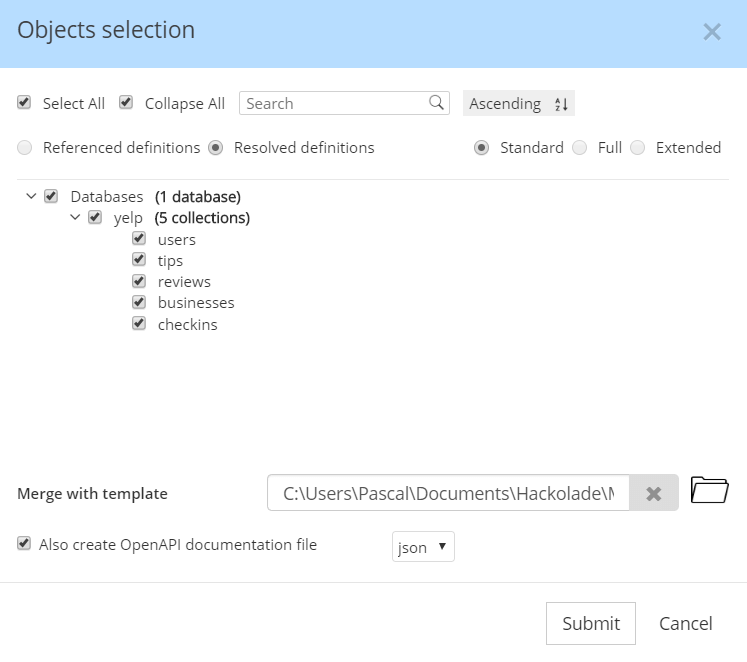
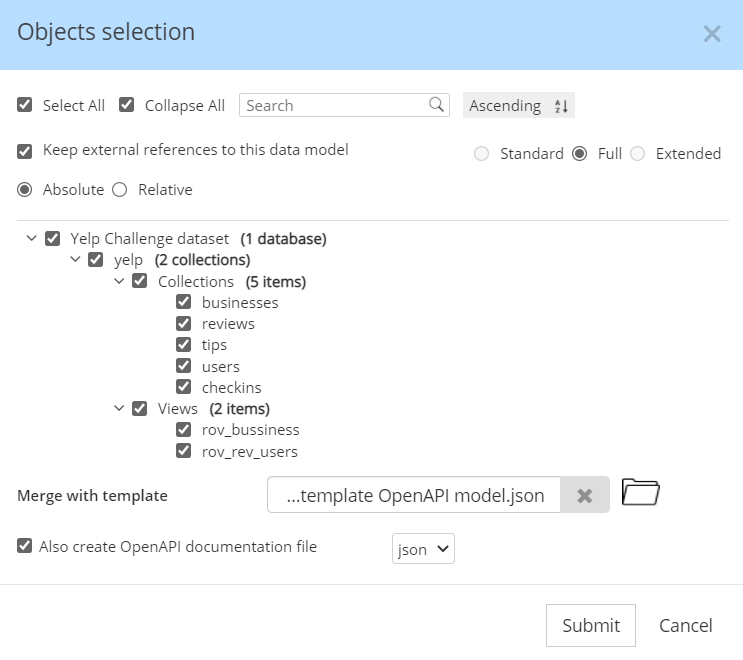
v5.4.2

diff --git a/Studio/Query-drivendatamodelingbasedona.md b/Studio/Query-drivendatamodelingbasedona.md
@@ -1,0 +1,109 @@
+# Query-driven data modeling based on access patterns
+
+Data modeling for relational databases is performed according to the rules of normalization, so larger tables are divided into smaller ones linked together with relationships.&nbsp; The purpose is to eliminate redundant or duplicate data.&nbsp; But NoSQL databases are completely different.&nbsp; They require a mindshift in schema design in order to leverage their capabilities, as well as a data modeling tool built specially for this new breed of state-of-the art technology.
+
+&nbsp;
+
+## Query-driven schema design
+
+To leverage the performance of NoSQL databases and the flexibility of JSON, it is important to unlearn the rules of normalization.&nbsp; JSON allows to aggregate information that belongs together so it is ready to be used, instead of splitting data across separate tables, as normalization rules would dictate.&nbsp; In other words, there’s an opportunity to join the data “on write”, instead of the traditional joins “on read” of relational databases which negatively impact performance.&nbsp; This difference is decisively important nowadays when real-time web applications and big data require high scalability and high availability.&nbsp; Note that this capability is not limited to JSON, as other types of NoSQL databases achieve the same result in different ways.
+
+![Image](<lib/Query-Driven%20schema%20design.png>)
+
+&nbsp;
+
+&nbsp;
+
+&nbsp;
+
+In NoSQL, you first define the queries for the application, then you store the data according to the query needs.&nbsp; It is said that data modeling for NoSQL should be “query-driven.”&nbsp; This aspect is critical to the success of NoSQL projects. &nbsp; A query-driven design of the JSON document schema means that, ideally for every time that the application needs to retrieve data from the database, all of the necessary data should be found with a single access to the database, without having to join it with data coming from other places.
+
+&nbsp;
+
+This approach is called [embedding](<https://hackolade.com/help/WhatisJSONWhatisJSONSchema.html#JSON%20in%20databases>), whereby the data, that would be in separate tables if normalized, is assembled and stored in a single atomic document, so it can be easily retrieved.&nbsp; Embedding is often opposed to referencing, which leverages foreign key relationships to the data stored elsewhere.&nbsp; While referencing is clearly more efficient in terms of storage costs, embedding provides much higher access performance and is easier for developers to manipulate.
+
+&nbsp;
+
+For queries returning multiple results, the idea is to retrieve all of the documents from ideally a single partition, so as to avoid having to gather information from multiple places.
+
+&nbsp;
+
+## Factors to take into consideration
+
+JSON seems to liberate users from the constraints of normalization.&nbsp; But you should exercise caution with deep nesting and unbounded arrays.
+
+&nbsp;
+
+### Document size and transaction volume
+
+When embedding into a single document, you must make sure to understand how the document will grow in size.&nbsp; While storage is cheap, you should also take into consideration the transmission impacts.&nbsp; To illustrate the point, if the document will be used on a mobile phone using a 4G network, does it make sense to transmit a 1 megabyte document if only a small portion of it is really necessary?&nbsp; Plus, your cloud provider may be charging for input/output traffic, so you may want to evaluate document size and transaction volume.
+
+&nbsp;
+
+### Cardinality of relationships
+
+Some document designs lead to a situation where data elements are constantly added to arrays.&nbsp; An unbounded array, i.e. an array with no limit to the number and size of array items being added, may grow to an unpredictable document size, with potentially negative impacts on performance and transmission costs.&nbsp; In some extremes you may even run into limits set by database providers, generally 16MB. &nbsp;
+
+&nbsp;
+
+When looking at embedding of one-to-many relationships, it is important to estimate the cardinality: are we talking about one-to-few, one-to-zillions, or somewhere in-between?&nbsp; Also, is the cardinality following a normal distribution, or do we have extreme outliers that require special treatment?
+
+&nbsp;
+
+### Referential integrity
+
+Detractors keep saying that NoSQL databases are not [ACID-compliant](<https://en.wikipedia.org/wiki/ACID> "target=\"\_blank\"") and would therefore not be usable in a transactional use case.&nbsp; Such criticism does not take into account several arguments, mainly that atomicity, integrity and consistency can be naturally achieved through embedding.&nbsp; Another factor, particularly in our modern connected world, is the fact that ACID is only possible when the system owns the full transaction end-to-end.&nbsp; Nowadays, resilience must be built into API processing more than database enforcement.
+
+&nbsp;
+
+Nevertheless, data quality and integrity should be a concern when designing application and schemas.&nbsp; And it is possible that some enforcement must be built at the application level.
+
+&nbsp;
+
+### Indexing impacts
+
+Indexes have their costs, and they're tempting features reminding us of the days of normalization.&nbsp; Some document designs, for example with a fully polymorphic model, lead to an undesirable proliferation of indexes.&nbsp; Whereas generic key-value pairs, while reducing the number of indexes, may lead to a loss of semantics with low integrity enforcement.&nbsp; Indexes are not free, so alternative access patterns must be evaluated and discussed.&nbsp; Maybe more data duplication is more effective than indexing?
+
+&nbsp;
+
+## Schema versioning and schema migration
+
+One of the huge benefits of flexible structures in JSON, is the ability to evolve schemas without interruption of database operations.&nbsp; But this feature should not be abused to the point that dozens of schema versions are supported by the application.&nbsp; As a matter of fact, if more than a single application is reading the data, it quickly becomes a nightmare to synchronize schema handling across multiple applications, let alone reporting and analytics tools.&nbsp; Besides, endless conditional branches in the application code unnecessarily burn CPU cycles.
+
+&nbsp;
+
+Best practices at major companies leverage schema versioning for transition periods, but are rigorous in quickly migrating old schema structures to the latest version before chaos occurs.&nbsp; Several strategies are used:&nbsp;
+
+* eager migration: like in the old days... convert the data prior to launching a new version of the software.&nbsp; This strategy does not leverage the flexible evolution capabilities of JSON;
+* lazy migration: update the schema of a document only after it has been used.&nbsp; A potential issue is that some documents will never be accessed, hence the migration will never end;
+* incremental migration: arbitrary chuncks of data are migrated, ideally at times when database loads are lower;
+* predictive migration: heuristics and probabilistic judgments are used to migrate documents before they are used;
+* combination of predictive migration first, followed by incremental to finish off the migration;
+* endless versioning: not desirable, particularly if constant evolution of the schema.
+
+&nbsp;
+
+### Backward- and forward-compatibility
+
+No database is an island.&nbsp; There may be many systems interacting with it.&nbsp; It is critically important to avoid the introduction of breaking changes. Even when planned and communicated, they have huge impacts on agility and costs.&nbsp; By thinking through each evolution, it is possible to leverage features in schema standards (JSON Schema, Avro, etc.) to ensure the full compatibility of schemas.&nbsp; That way consumers and producers can upgrade at their own pace.
+
+&nbsp;
+
+### Choice of partition or sharding keys
+
+Another great advantage of NoSQL databases is their horizontal scaling capability, which is achieved through the distribution of data across servers, data centers, and geography.&nbsp; But efficiently leveraging this capability requires careful design.&nbsp; It is a balancing act between spreading evenly storage and load across the different partitions/shards, and the efficient retrieval of information when serving queries, so the information can be retrieved from a minimal number of partitions/shards - ideally just one.&nbsp;
+
+&nbsp;
+
+&nbsp;
+
+## Facilitating communication and collaboration
+
+Hackolade Studio is graphical tool for entity-relationship diagrams, extended to represent nested objects found in popular technologies for databases and data exchanges.&nbsp; Developers might tell you that, if you want to see the schema, you should just look at the code.&nbsp; Good practices however teach us that schema design for NoSQL databases is even more important than for relational databases where rules of normalization provide some guardrails.&nbsp; JSON is so flexible and powerful that it can be dangerous in the hands of inexperienced developers or ignorance of the factors described above.
+
+&nbsp;
+
+An ERD picture is worth a thousand words.&nbsp; It fosters communication and helps think through the different ways to denormalize information and balance the different constraints.&nbsp; It also lets non-developers easily visualize and understand data structures that are the foundation of applications and data exchanges.&nbsp; If business users don't understand the context and meaning of the data, it becomes difficult to deploy self-service analytics or make accurate business decisions.
+
+&nbsp;
+

diff --git a/Studio/v5x.md b/Studio/v5x.md
@@ -2,9 +2,33 @@
 
 New features in v5.4.2 \[28-Jan-2022\]
 
+\- Software Key Validation dialog: pre-fill of optional Identifier field with Computer Name + OS username.&nbsp; Can be cleared or overwritten if desired
+
 \- ERD: added more display options to hide attributes with specific properties (non-primary keys, non-required attributes, nullable attributes, etc.)
 
-\- Polyglot: when deriving into Swagger/OpenAPI, added possibility to achieve model-driven API generation by merging with a template&nbsp;
+\- Polyglot: when deriving into Swagger/OpenAPI, added possibility to merge with a template, like with model-driven API generation
+
+\- Avro: added possibility to reverse-engineer multiple record schemas in single .avsc file
+
+\- Databricks: enhanced context creation, plus added Runtime 9 support
+
+\- Oracle: added config to allow connection to Amazon RDS
+
+\- Oracle: added connection by SID
+
+\- Oracle: added possibility to narrow scope of discovery of instance to a single user schema
+
+\- Oracle: added reverse-engineering of table and column comments
+
+\- PostgreSQL: adjusted reverse-engineering of indexes and functions when version 10
+
+\- Snowflake: added timeout from tools options, plus used warehouse auth by credentials
+
+\- Snowflake: added handling of cross-schema views
+
+\- Snowflake: added possibility to apply DDL script to instance
+
+\- Snowflake: added snippets for GeoJSON geometries in data type geography
 
 &nbsp;
 

diff --git a/Studio/BigQuery.md b/Studio/BigQuery.md
@@ -100,17 +100,11 @@ A button lets the user apply to a selected instance the script to create dataset
 
 ## Reverse-Engineering
 
-The connection is established using a connection using Google Cloud IAM credentials key file:
+The connection is established using a connection using Google Cloud IAM credentials key file.&nbsp; More details can be found [here](<ConnecttoaBigQueryinstance.md>).
 
 &nbsp;
 
-![BigQuery connection settings](<lib/BigQuery%20connection%20settings.png>)
-
-&nbsp;
-
-&nbsp;
-
-The Hackolade process for reverse-engineering of Google BigQuery datasets includes the execution of SQL statements to discover datasets, tables and views, columns and their data types.&nbsp;
+The Hackolade process for reverse-engineering of Google BigQuery datasets includes the execution of SQL statements to discover datasets, tables and views, columns and their data types. If JSON is detected in text columns, Hackolade performs statistical sampling of records followed by probabilistic inference of the JSON document schema.
 
 &nbsp;
 

diff --git a/Studio/help.md b/Studio/help.md
@@ -21,6 +21,7 @@
   - [Tutorial](<Tutorial.md>)
     - [What is a data model?](<Whatisadatamodel.md>)
     - [Overview of JSON and JSON Schema](<OverviewofJSONandJSONSchema.md>)
+    - [Query-driven data modeling based on access patterns](<Query-drivendatamodelingbasedona.md>)
     - [Create your first data model](<Createyourfirstdatamodel.md>)
     - [Add nested objects and arrays](<Addnestedobjectsandarrays.md>)
     - [Add a choice, conditional, or pattern field](<Addachoiceconditionalorpatternfi.md>)
@@ -33,9 +34,9 @@
     - [Leverage a Polyglot data model](<LeverageaPolyglotdatamodel.md>)
 - [NoSQL databases, storage formats, REST APIs](<NoSQLdatabasesJSONRESTAPIs.md>)
   - [Polyglot Data Model](<PolyglotDataModel.md>)
+  - [JSON Schema](<JSONSchema2.md>)
   - [Couchbase](<Couchbase.md>)
   - [DynamoDB](<DynamoDB.md>)
-  - [JSON Schema](<JSONSchema2.md>)
   - [MongoDB](<MongoDB.md>)
   - [Download additional target plugins](<DownloadadditionalDBtargetplugin.md>)
     - [Avro schema](<Avroschema.md>)

diff --git a/Studio/LeverageaPolyglotdatamodel.md b/Studio/LeverageaPolyglotdatamodel.md
@@ -40,6 +40,10 @@ Alternatively, if you have an existing target data model, you can convert it to 
 
 ## Derive a target data model
 
+**Important:** from a polyglot model, you cannot directly forward-engineer DDLs, scripts, schemas, etc for technology targets.&nbsp; You must first create a target data model for the technology of your choice, then pull (or derive) from the polyglot model.&nbsp; Then you're able to forward-engineer the artifacts from the target model.
+
+&nbsp;
+
 Once you're ready to create a physical data model for a given technology, the process starts with the creation of a new model for the target of your choice.&nbsp; Then, from the target model, you derive your physical model from the polyglot data model by selecting the menu Tools \> Polyglot \> Derive from Polyglot Model:
 
 &nbsp;

diff --git a/Studio/APIModel.md b/Studio/APIModel.md
@@ -100,7 +100,13 @@ You may choose either OpenAPI 3 or Swagger 2 as a destination version.
 
 You are presented with the usual dialog for object select; and you may unselect entities you do not wish to include in the API generation:&nbsp;
 
-![Model-driven API generation entity selection](<lib/Model-driven%20API%20generation%20entity%20selection.png>)
+![Image](<lib/Model-driven%20API%20generation%20entity%20selection.png>)
+
+&nbsp;
+
+By keeping external references, you ensure that, if changes are made to the source data model, the API model can be kept in sync.&nbsp; The path can be absolute or relative.
+
+&nbsp;
 
 You must choose a valid template, either in a Hackolade model format, or in an OpenAPI or Swagger documentation file (either in JSON or YAML.) &nbsp;
 

diff --git a/Studio/CollibraDataDictionaryintegratio.md b/Studio/CollibraDataDictionaryintegratio.md
@@ -14,7 +14,7 @@ The process automatically:
 * creates the necessary custom scopes, attributeTypes and assignments to support the granularity of Hackolade features
 * then creates and keeps in sync assets for schemas, tables, views, columns, and foreign key relationships.
 
-The integration specifically handles complex data types, hierarchical structures, and polymorphism found in modern databases, JSON, Avro, Parquet, ProtoBuf, etc...
+The integration specifically handles complex data types, hierarchical structures, and polymorphism found in modern databases, JSON, Avro, Parquet, ProtoBuf, etc...&nbsp; Custom properties defined for a plugin are also published as custom attributeTypes in Collibra.
 
 &nbsp;
 

diff --git a/Studio/Whatisadatamodel.md b/Studio/Whatisadatamodel.md
@@ -1,6 +1,6 @@
 # What is a data model?
 
-This is the first in a series of tutorials for Hackolade Studio.&nbsp; This first tutorial as well as the next one, covers basic concepts.&nbsp; If these concepts are known to you, you may skip directly to get [hands-on](<Createyourfirstdatamodel.md>) with Hackolade Studio.
+This is the first in a series of tutorials for Hackolade Studio.&nbsp; The first few tutorials cover basic concepts to provide a complete and progressive picture.&nbsp; If these concepts are known to you, you may skip directly to get [hands-on](<Createyourfirstdatamodel.md>) with Hackolade Studio.
 
 ## Overview
 

diff --git a/Studio/EntityboxesinERdiagram.md b/Studio/EntityboxesinERdiagram.md
@@ -88,6 +88,12 @@ dk: denormalized key (parent of a foreign key.)&nbsp; Marks keys that are denorm
 
 dm: denormalized master (parent of a foreign master.)&nbsp; Marks non-key attributes that are denormalized elsewhere in the model. &nbsp;
 
+PK: partition key, where applicable
+
+CK: clustering key, where applicable
+
+sk: sort key, where applicable
+
 \*: required attribute
 
 \+: only in Avro: null allowed

diff --git a/Studio/Model-DrivenAPIGeneration.md b/Studio/Model-DrivenAPIGeneration.md
@@ -4,5 +4,5 @@ Model-Driven API generation is performed via the Tools \> Forward-Engineering \>
 
 &nbsp;
 
-You can find all details here.
+You can find all details [here](<APIModel.md>).
 
